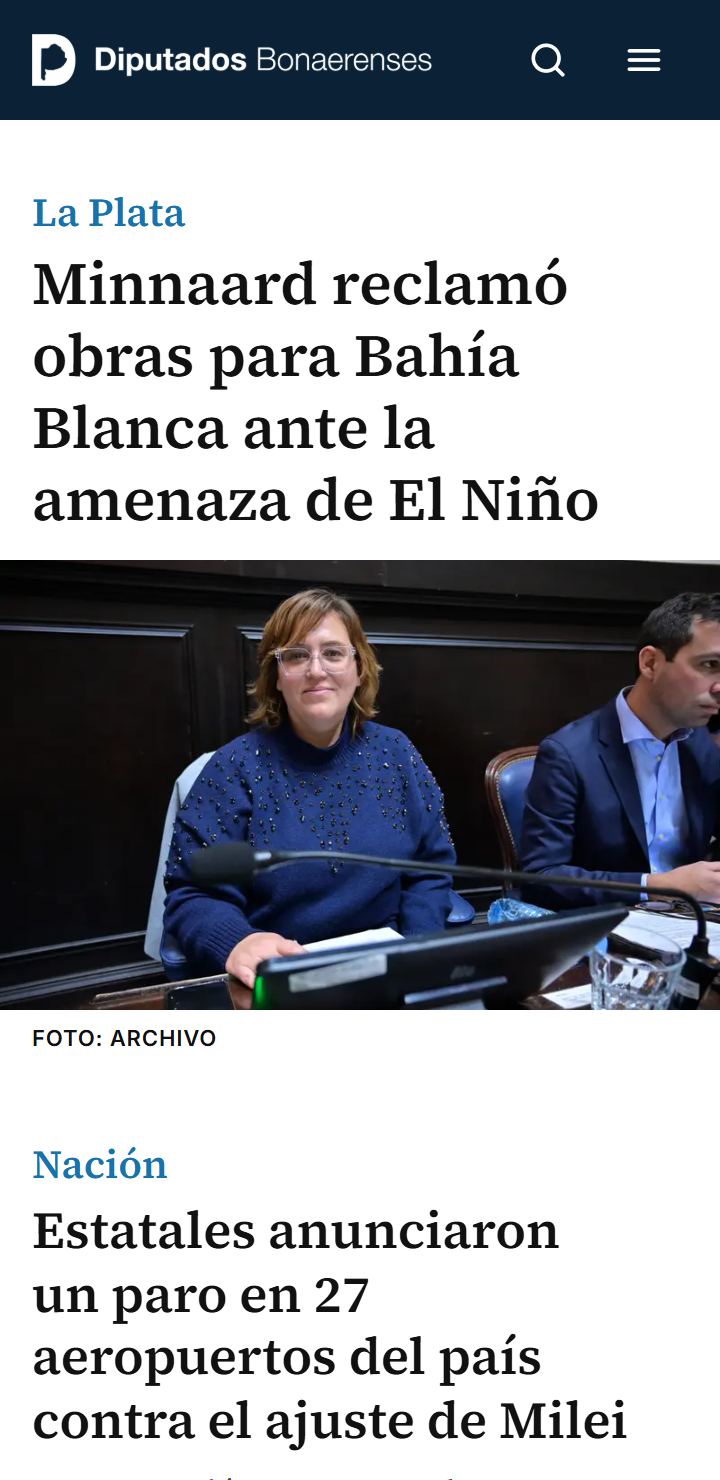
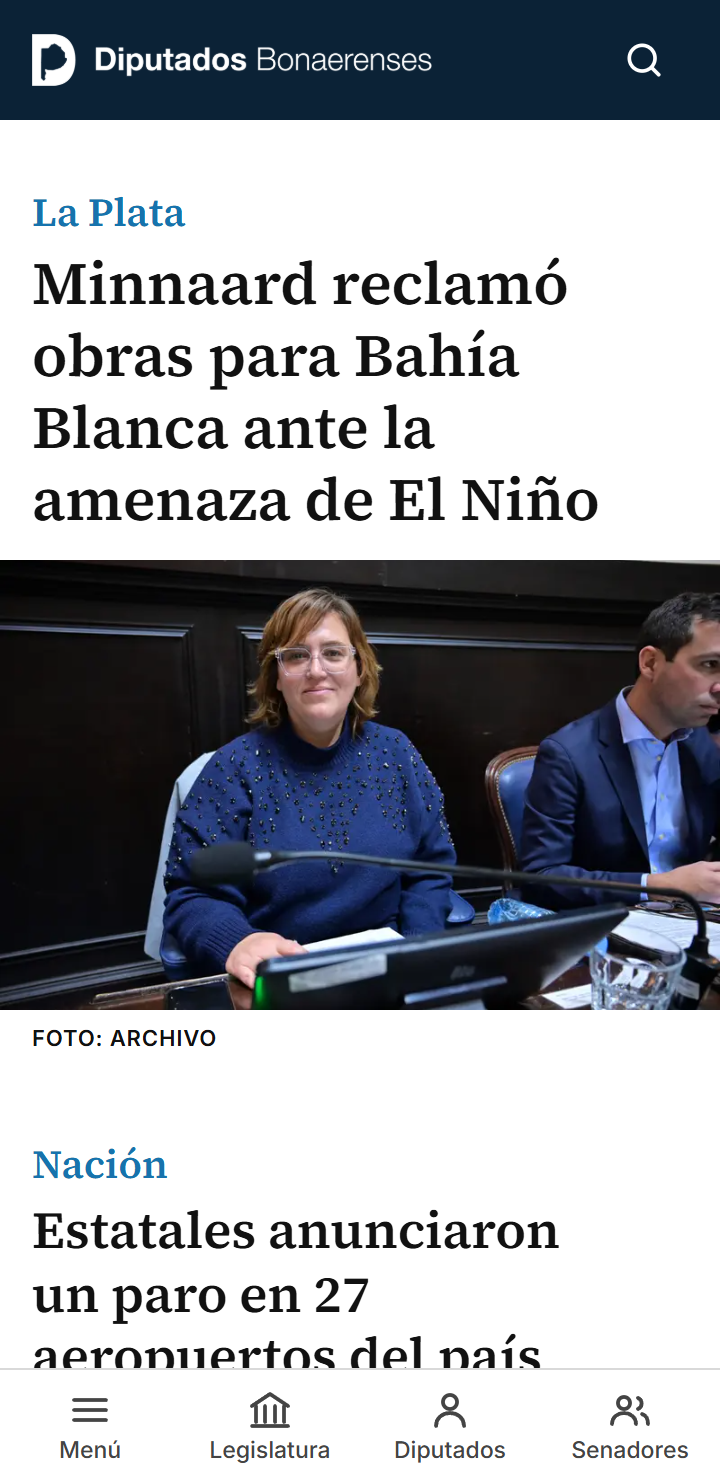
v2.2 etapa E: README, capturas y comparación de peso 600/700

Changed region(s): [[0.0611, 0.9014, 0.9472, 0.9946], [0.8556, 0.0311, 0.9167, 0.0622], [0.7333, 0.0311, 0.7944, 0.0622]]

diff --git a/README.md b/README.md
@@ -1,4 +1,4 @@
-# Maqueta v2.1 · Diputados Bonaerenses (diseño "diario", solo 2 formatos en el flujo)
+# Maqueta v2.2 · Diputados Bonaerenses (diseño "diario", 2 formatos en el flujo, ajustes mobile del 12/11)
 
 Maqueta estática, mobile first, sin frameworks. Todas las páginas llevan `noindex,nofollow`. No toca el WordPress.
 
@@ -14,11 +14,11 @@ Maqueta estática, mobile first, sin frameworks. Todas las páginas llevan `noin
 cabecera (fecha · menú · doble línea)
 [superdestacada opcional]
 TAPA de 3
-[legis=a] Diputados y Senadores
+[legis=a] Diputados + Senadores (dos módulos)
 FORMATO 1 (4 notas)
 banner 1180×90
 FORMATO 1 (4 notas más)
-[legis=b] Diputados y Senadores
+[legis=b] Diputados + Senadores (dos módulos)
 ─── doble línea ───
 FORMATO 2 (8 notas, fondo suave)
 Anunciantes
@@ -48,7 +48,9 @@ Ejemplo: `index.html?demo=1&super=2&legis=b&bajada=on`. "Copiar link de esta var
 | `super` | **off** · foto · texto · 2 · 3 | Superdestacada sobre la tapa: A foto, B solo texto, o apiladas |
 | `tapa` | **izq** · der | Foto de la nota fuerte a izquierda o derecha |
 | `legis` | **a** · b | Diputados y Senadores tras la tapa (a) o tras el segundo Formato 1 (b) |
-| `bajada` | on · **off** | Bajada en el Formato 1 |
+| `bajada` | **auto** · on · off | Bajada del Formato 1. `auto`: en mobile siempre con bajada entera (sin recorte), en desktop sin bajada en F1. La nota 1 de la tapa en mobile nunca lleva bajada |
+| `peso` | **600** · 700 | Peso de los títulos de tarjeta en mobile (variable CSS `--titulo-peso-mobile`) |
+| `tiempo` | **off** · on | Hora relativa ("Hace 2 horas") en las tarjetas. OJO: `hora` sigue siendo la franja "Última hora" (el brief asumía que `hora` era la de las tarjetas, por eso se creó `tiempo`) |
 | `ad` | **on** · off | Banner 1180×90 (320×100 en mobile); apagado colapsa |
 | `fondos` | **on** · off | Fondo suave del Formato 2 |
 | `fotos` | **ejemplo** · iniciales | Retratos de fantasía o iniciales |
@@ -58,6 +60,14 @@ Ejemplo: `index.html?demo=1&super=2&legis=b&bajada=on`. "Copiar link de esta var
 | `credito` | **on** · off | Crédito de foto en mayúsculas |
 
 Los parámetros `m1` y `m2` ya no existen. Un script inline en `<head>` pone los valores en `<html data-*>` antes del primer render.
+
+## v2.2 · Mobile (< 768 px), feedback de Juan 12/11
+- **Tarjetas**: cintillo (volanta o dateline "La Plata", serif 20 px, color de acento) → título (26 px, 30 px la nota 1 de la tapa; peso 600) → bajada entera → foto 16:10 → "FOTO: ARCHIVO". Nota 1 de la tapa sin bajada ni relacionadas. En la franja de secciones se oculta el cintillo (la categoría ya es el título de la columna). Listas de la sección interna con el mismo orden.
+- **Zócalo fijo** (`.dock`): Menú · Legislatura · Diputados · Senadores, 56 px + safe-area, sin ocultarse al scrollear. Menú abre el panel de siempre (queda por encima del zócalo, se cierra con su X). Volver arriba, barra de compartir y panel `?demo=1` quedan encima del zócalo. Nuevas páginas `diputados.html` y `senadores.html` (filtradas por cámara).
+- **Módulos separados** Diputados / Senadores (también en desktop, uno tras otro, contadores propios "1 de 16" / "1 de 8").
+- **Franja final**: títulos a 28 px, "Ver más de X" como botón con flecha, doble línea entre secciones, anunciantes sin título ni rótulo y con 8 px de aire.
+- Constantes en `build.mjs`: `HEADER_MENU_MOBILE` (false: sin las tres barritas arriba en mobile), `SHOW_FECHA_EN_NOTA` (true). La hora de las tarjetas está apagada en todas las pantallas (`tiempo=off`).
+- Capturas en `capturas/`: `index-m390.png`, `zocalo-*`, `modulos-diputados-senadores-m390.png`, `franja-secciones-m390.png`, `anunciantes-m390.png`, `comparacion-peso-600-vs-700-m360.png`, `index-d1280.png`.
 
 ## Secciones internas (`seccion.html`)
 Mini tapa de 1 nota + flujo vertical (línea arriba, volanta, titular, bajada, hora, foto a la derecha) + columna lateral sticky de 300 px en desktop. Scroll infinito con `IntersectionObserver`, esqueleto de un bloque entero (altura reservada) y botón "Ver más notas" de respaldo; carga de a 10 hasta 120 (las notas se reutilizan con `data-uid` distinto). Mobile: slot 300×250 cada `SECTION_AD_EVERY` notas (0 lo apaga). Esta lista es independiente de los dos formatos del home.
